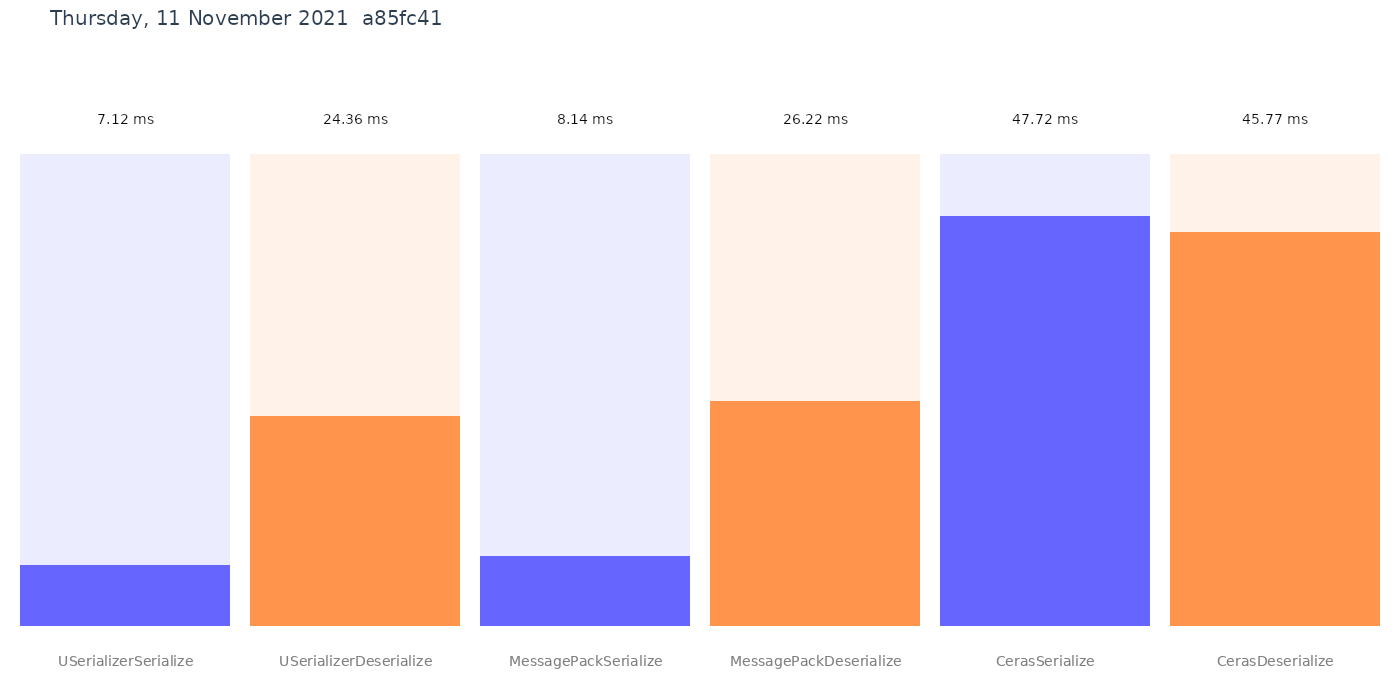
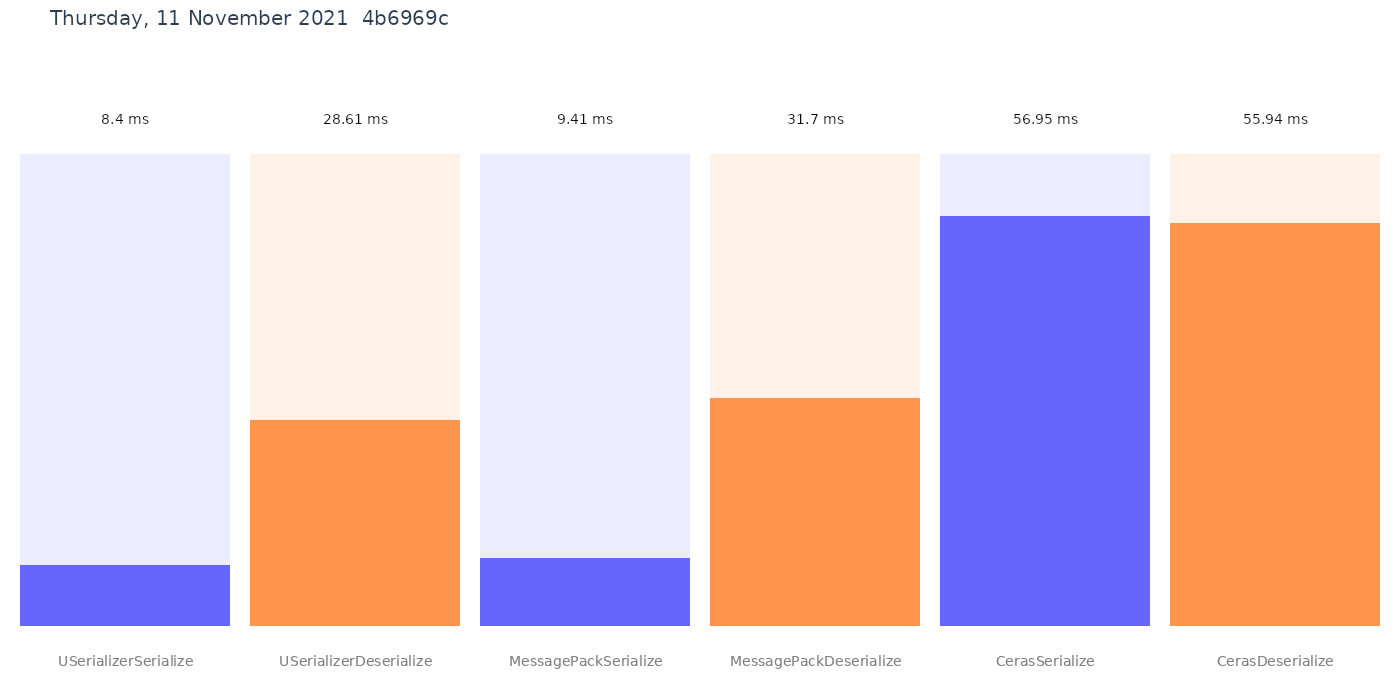
deploy: 4b6969c031b0e983cd28975c8d8bfa88a3712575

diff --git a/performance.md b/performance.md
@@ -1,7 +1,7 @@
 ``` ini
 
 BenchmarkDotNet=v0.12.1, OS=ubuntu 20.04
-Intel Xeon Platinum 8272CL CPU 2.60GHz, 1 CPU, 2 logical and 2 physical cores
+Intel Xeon Platinum 8171M CPU 2.60GHz, 1 CPU, 2 logical and 2 physical cores
 .NET Core SDK=5.0.403
   [Host]   : .NET Core 5.0.12 (CoreCLR 5.0.1221.52207, CoreFX 5.0.1221.52207), X64 RyuJIT
   ShortRun : .NET Core 5.0.12 (CoreCLR 5.0.1221.52207, CoreFX 5.0.1221.52207), X64 RyuJIT
@@ -12,9 +12,9 @@ WarmupCount=3
 ```
 |                 Method |      Mean |     Error |    StdDev |
 |----------------------- |----------:|----------:|----------:|
-|   USerializerSerialize |  7.121 ms | 0.0417 ms | 0.0023 ms |
-| USerializerDeserialize | 24.362 ms | 0.1905 ms | 0.0104 ms |
-|   MessagePackSerialize |  8.139 ms | 0.0360 ms | 0.0020 ms |
-| MessagePackDeserialize | 26.216 ms | 3.6661 ms | 0.2010 ms |
-|         CerasSerialize | 47.721 ms | 1.9660 ms | 0.1078 ms |
-|       CerasDeserialize | 45.767 ms | 4.9975 ms | 0.2739 ms |
+|   USerializerSerialize |  8.399 ms | 0.2574 ms | 0.0141 ms |
+| USerializerDeserialize | 28.613 ms | 4.4369 ms | 0.2432 ms |
+|   MessagePackSerialize |  9.409 ms | 0.1079 ms | 0.0059 ms |
+| MessagePackDeserialize | 31.703 ms | 0.6845 ms | 0.0375 ms |
+|         CerasSerialize | 56.951 ms | 3.4236 ms | 0.1877 ms |
+|       CerasDeserialize | 55.939 ms | 0.6956 ms | 0.0381 ms |
